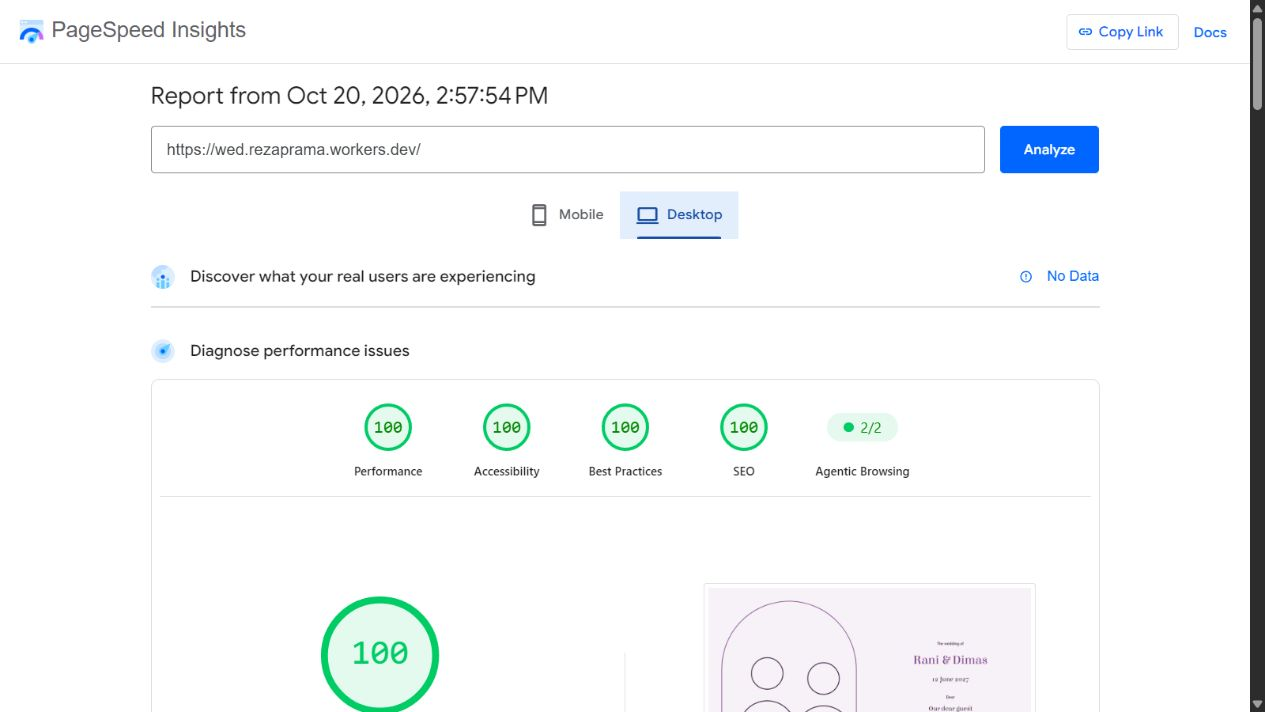
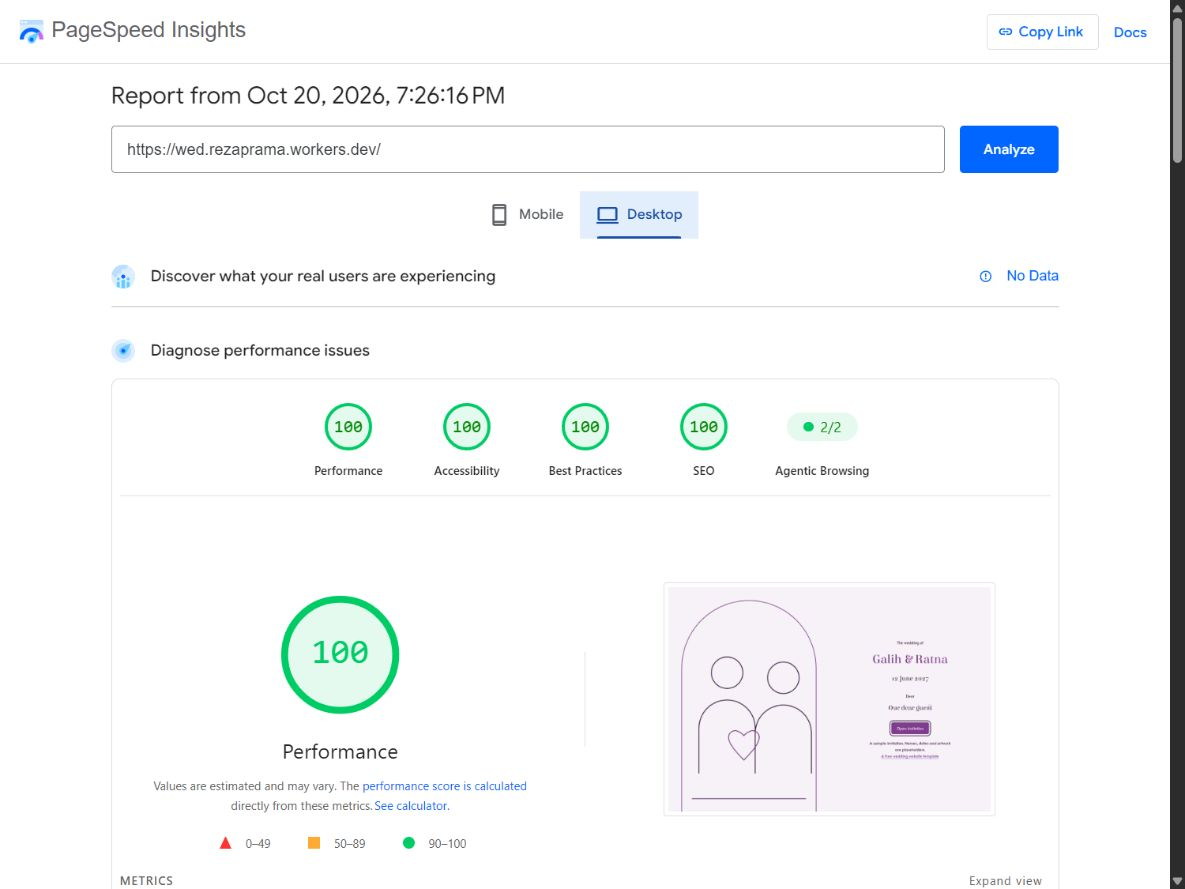
docs: refresh demo PageSpeed evidence

diff --git a/docs/performance.md b/docs/performance.md
@@ -20,12 +20,12 @@ Performance measurements vary with network, test infrastructure, browser/Lightho
 
 Live demo: https://wed.rezaprama.workers.dev
 
-Measured on **20 October 2026**, using the unmodified sample configuration and SVG placeholders, Lighthouse 13.5.0:
+Measured on **20 October 2026 at 19:26 WIB**, after commit `99cbdae`, using the default Galih & Ratna sample configuration and SVG placeholders, Lighthouse 13.5.0:
 
 | Device | Performance | Accessibility | Best Practices | SEO | Report |
 | --- | --- | --- | --- | --- | --- |
-| Mobile | 100 | 100 | 100 | 100 | [PageSpeed report](https://pagespeed.web.dev/analysis/https-wed-rezaprama-workers-dev/hzq83lt6bl?form_factor=mobile) |
-| Desktop | 100 | 100 | 100 | 100 | [PageSpeed report](https://pagespeed.web.dev/analysis/https-wed-rezaprama-workers-dev/hzq83lt6bl?form_factor=desktop) |
+| Mobile | 100 | 100 | 100 | 100 | [PageSpeed report](https://pagespeed.web.dev/analysis/https-wed-rezaprama-workers-dev/1qvjza0vju?form_factor=mobile) |
+| Desktop | 100 | 100 | 100 | 100 | [PageSpeed report](https://pagespeed.web.dev/analysis/https-wed-rezaprama-workers-dev/1qvjza0vju?form_factor=desktop) |
 
 Evidence: [mobile screenshot](pagespeed-mobile.png), [desktop screenshot](pagespeed-desktop.png). These are measured demo results, not promises for customized photos, optional features or future tests. Real-user field data was unavailable at the time of the run.
 
